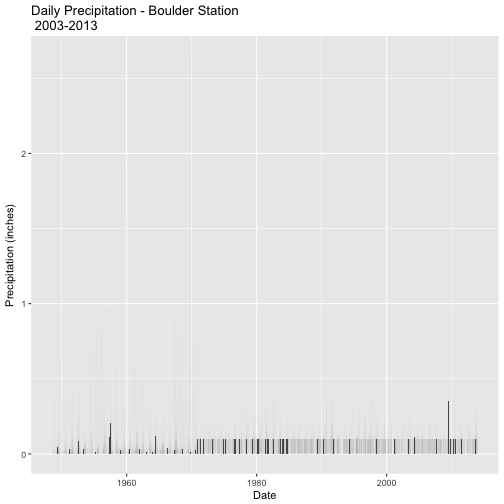
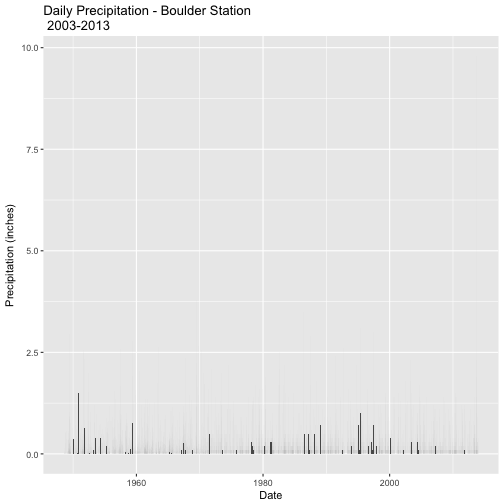
more content edits to new lesson

diff --git a/_posts/course-materials/earth-analytics/week-2/hw-plot-precip-data/2016-12-06-flood06-USGS-precip-subset-graduate-in-R.md b/_posts/course-materials/earth-analytics/week-2/hw-plot-precip-data/2016-12-06-flood06-USGS-precip-subset-graduate-in-R.md
@@ -124,29 +124,11 @@ Next, check out the data. Are there no data values? If so, make sure to adjust y
 data import code above to account for no data values. Then determine how many no
 data values you have in your dataset.
 
+![histogram of data]({{ site.url }}/images/rfigs/course-materials/earth-analytics/week-2/hw-plot-precip-data/2016-12-06-flood06-USGS-precip-subset-graduate-in-R/no-data-values-hist-1.png)![histogram of data]({{ site.url }}/images/rfigs/course-materials/earth-analytics/week-2/hw-plot-precip-data/2016-12-06-flood06-USGS-precip-subset-graduate-in-R/no-data-values-hist-2.png)
+
+
 
 ```r
-
-# histogram - would allow us to see 999.99 NA values
-# or other "weird" values that might be NA if we didn't know the NA value
-hist(precip.boulder$HPCP, main ="Are there NA values?")
-```
-
-![histogram of data]({{ site.url }}/images/rfigs/course-materials/earth-analytics/week-2/hw-plot-precip-data/2016-12-06-flood06-USGS-precip-subset-graduate-in-R/no-data-values-hist-1.png)
-
-```r
-
-precip.boulder <- read.csv("data/flood-co-2013/precip/805333-precip_daily_1948-2013.csv",
-                           header = TRUE, na.strings = 999.99)
-
-hist(precip.boulder$HPCP, main ="This looks better after the reimporting with\n no data values specified", xlab="value", ylab="frequency")
-```
-
-![histogram of data]({{ site.url }}/images/rfigs/course-materials/earth-analytics/week-2/hw-plot-precip-data/2016-12-06-flood06-USGS-precip-subset-graduate-in-R/no-data-values-hist-2.png)
-
-```r
-
-
 print("how many NA values are there?")
 ## [1] "how many NA values are there?"
 sum(is.na(precip.boulder))
@@ -177,10 +159,10 @@ need to look like the one below!
 
 
 ```
-## Error in eval(expr, envir, enclos): object 'DateTime' not found
+## Warning: Removed 401 rows containing missing values (position_stack).
 ```
 
-![ ]({{ site.url }}/images/rfigs/course-materials/earth-analytics/week-2/hw-plot-precip-data/2016-12-06-flood06-USGS-precip-subset-graduate-in-R/plot-precip-hourly-1.png)
+![hourly precipitation]({{ site.url }}/images/rfigs/course-materials/earth-analytics/week-2/hw-plot-precip-data/2016-12-06-flood06-USGS-precip-subset-graduate-in-R/plot-precip-hourly-1.png)
 
 These data are hard to look at. And really we only need to explore 30 years or so.
 Let's do the following
@@ -192,51 +174,37 @@ Let's do the following
 
 To aggregate data by a particular variable or time period, we can create a new column
 in our dataset called day. We will take all of the values for each day and add them
-using the `sum()` function. We can do all of this efficiently using dplyr!
+using the `sum()` function. We can do all of this efficiently using dplyr mutate() function.
 
-An example of how this works is below
-
-1. We use the mutate() function to ADD a new column called day to a new data.frame called daily_sum_precip. Note that we used as.Date to just grab the dates rather than dates and times.
-
+We use the `mutate()` function to add a new column called **day** to a new data.frame called **daily_sum_precip**. Note that we used `as.Date()` to just grab the dates rather than dates and times which are stored in the POSIX format.
 
 
 
 ```r
-
-
 # use dplyr
 daily_sum_precip <- precip.boulder %>%
-  mutate(day = as.Date(DATE, format="%Y-%m-%d"))
+  # create a new field called day and populate it with just the date
+  mutate(day = as.Date(DATE, format="%Y-%m-%d")) 
 
 # let's look at the new column
 head(daily_sum_precip$day)
 ## [1] "1948-08-01" "1948-08-02" "1948-08-03" "1948-08-03" "1948-08-03"
 ## [6] "1948-08-04"
-
-precPlot_daily1 <- ggplot(data=precip.boulder,  # the data frame
-      aes(DATE, HPCP)) +   # the variables of interest
-      geom_bar(stat="identity") +   # create a bar graph
-      xlab("Date") + ylab("Precipitation (Inches)") +  # label the x & y axes
-      ggtitle("Daily Precipitation - Boulder Station\n 2003-2013")  # add a title
-
-precPlot_daily1
-## Warning: Removed 401 rows containing missing values (position_stack).
 ```
+![Daily precip plot]({{ site.url }}/images/rfigs/course-materials/earth-analytics/week-2/hw-plot-precip-data/2016-12-06-flood06-USGS-precip-subset-graduate-in-R/plot-daily-1.png)
 
-![ ]({{ site.url }}/images/rfigs/course-materials/earth-analytics/week-2/hw-plot-precip-data/2016-12-06-flood06-USGS-precip-subset-graduate-in-R/daily-summaries-1.png)
-
-Next we summarize() our data by the day field. This is similar to a workflow that
-you would do in excel!
+Next we `summarize()` the precipitation column (total_precip) - grouped by day.
+What this means is that we ADD UP all of the values for each day to get a grand
+total amount of precipitation each day.
 
 
 
 ```r
-
 # use dplyr
 daily_sum_precip <- precip.boulder %>%
   mutate(day = as.Date(DATE, format="%Y-%m-%d")) %>%
-  group_by(day) %>%
-  summarise(total_precip=mean(HPCP))
+  group_by(day) %>% # group by the day column
+  summarise(total_precip=sum(HPCP)) # calculate the SUM of all precipitation that occured on each day
 
 # how large is the resulting data frame?
 nrow(daily_sum_precip)
@@ -247,12 +215,12 @@ head(daily_sum_precip)
 ## # A tibble: 6 × 2
 ##          day total_precip
 ##       <date>        <dbl>
-## 1 1948-08-01   0.00000000
-## 2 1948-08-02   0.05000000
-## 3 1948-08-03   0.02333333
-## 4 1948-08-04   0.02000000
-## 5 1948-08-06   0.02000000
-## 6 1948-08-14   0.01500000
+## 1 1948-08-01         0.00
+## 2 1948-08-02         0.05
+## 3 1948-08-03         0.07
+## 4 1948-08-04         0.14
+## 5 1948-08-06         0.02
+## 6 1948-08-14         0.03
 
 # view column names
 names(daily_sum_precip)
@@ -267,7 +235,7 @@ Now plot the daily data.
 ## Warning: Removed 323 rows containing missing values (position_stack).
 ```
 
-![ ]({{ site.url }}/images/rfigs/course-materials/earth-analytics/week-2/hw-plot-precip-data/2016-12-06-flood06-USGS-precip-subset-graduate-in-R/daily-prec-plot-1.png)
+![Daily precipitation for boulder]({{ site.url }}/images/rfigs/course-materials/earth-analytics/week-2/hw-plot-precip-data/2016-12-06-flood06-USGS-precip-subset-graduate-in-R/daily-prec-plot-1.png)
 
 
 ## have them create a few plots over different time scales
@@ -340,6 +308,3 @@ head(precip.boulder)
 ## 5 1948-08-03 15:00:00 0.03                                3e-04
 ## 6 1948-08-04 01:00:00 0.05                                5e-04
 ```
-
-#### Question
-Compare `HPCP` and `PRECIP`. Did we do the conversion correctly?
